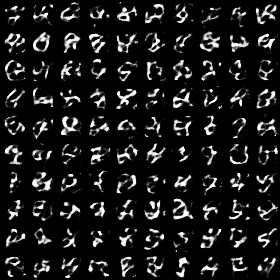
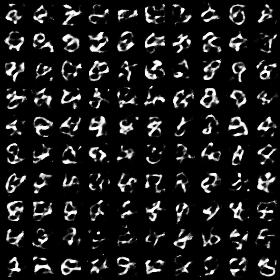
updated decoder.py and output images

diff --git a/decoder.py b/decoder.py
@@ -37,6 +37,12 @@ def main():
         images = visualize_mnist_data(decoded_data.detach().cpu())
         Image.fromarray(images).save(f"noisy_decoder_data.png")
 
+        # remove last 10 dimensions of the emb
+        emb[:, -3:] = 0
+        decoded_data = model.decode(emb)
+        images = visualize_mnist_data(decoded_data.detach().cpu())
+        Image.fromarray(images).save(f"removed_last_10_decoder_data.png")
+
 
 if __name__ == "__main__":
     main()
